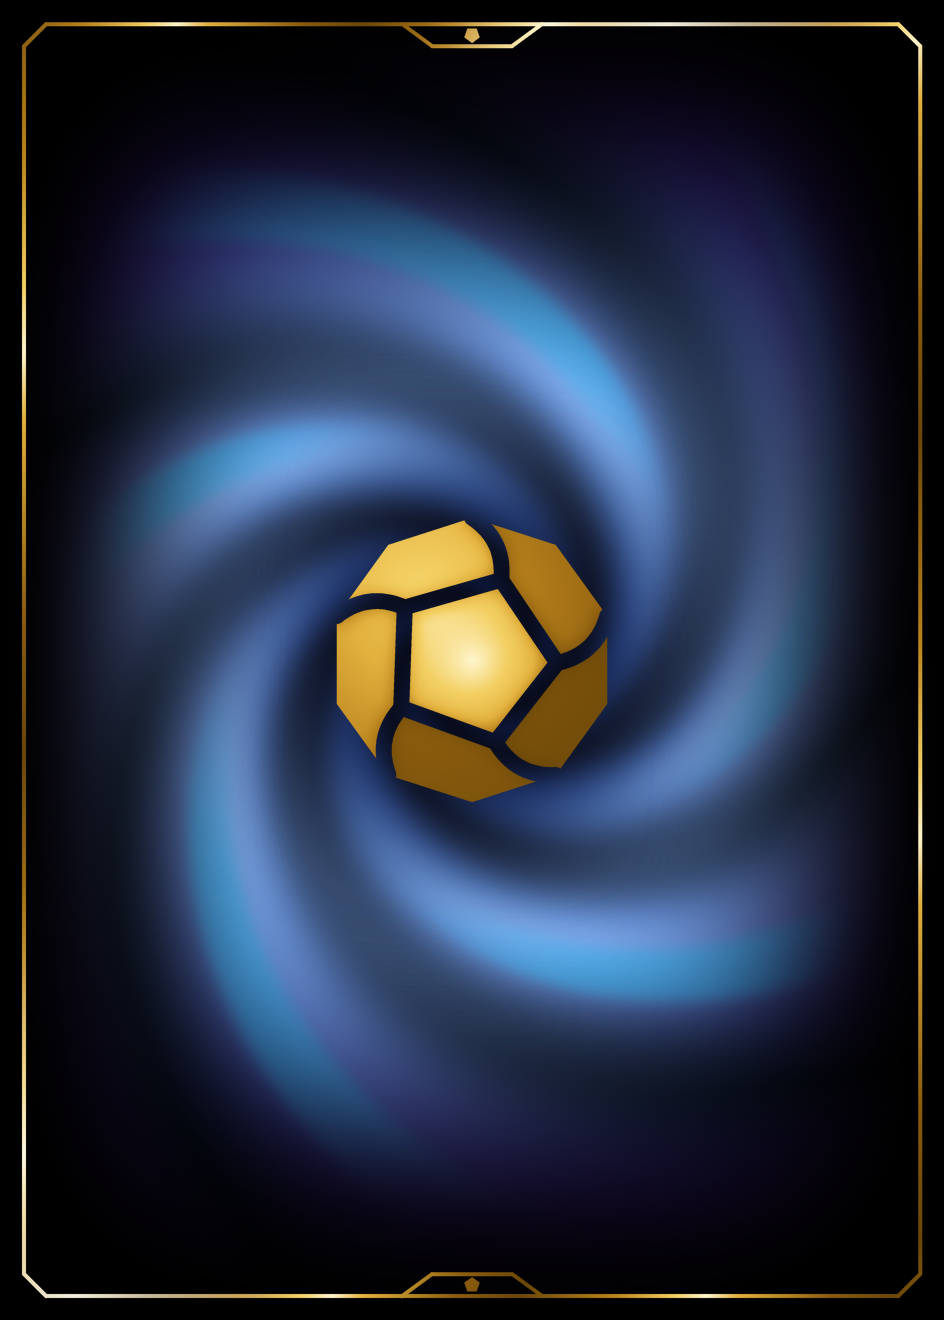
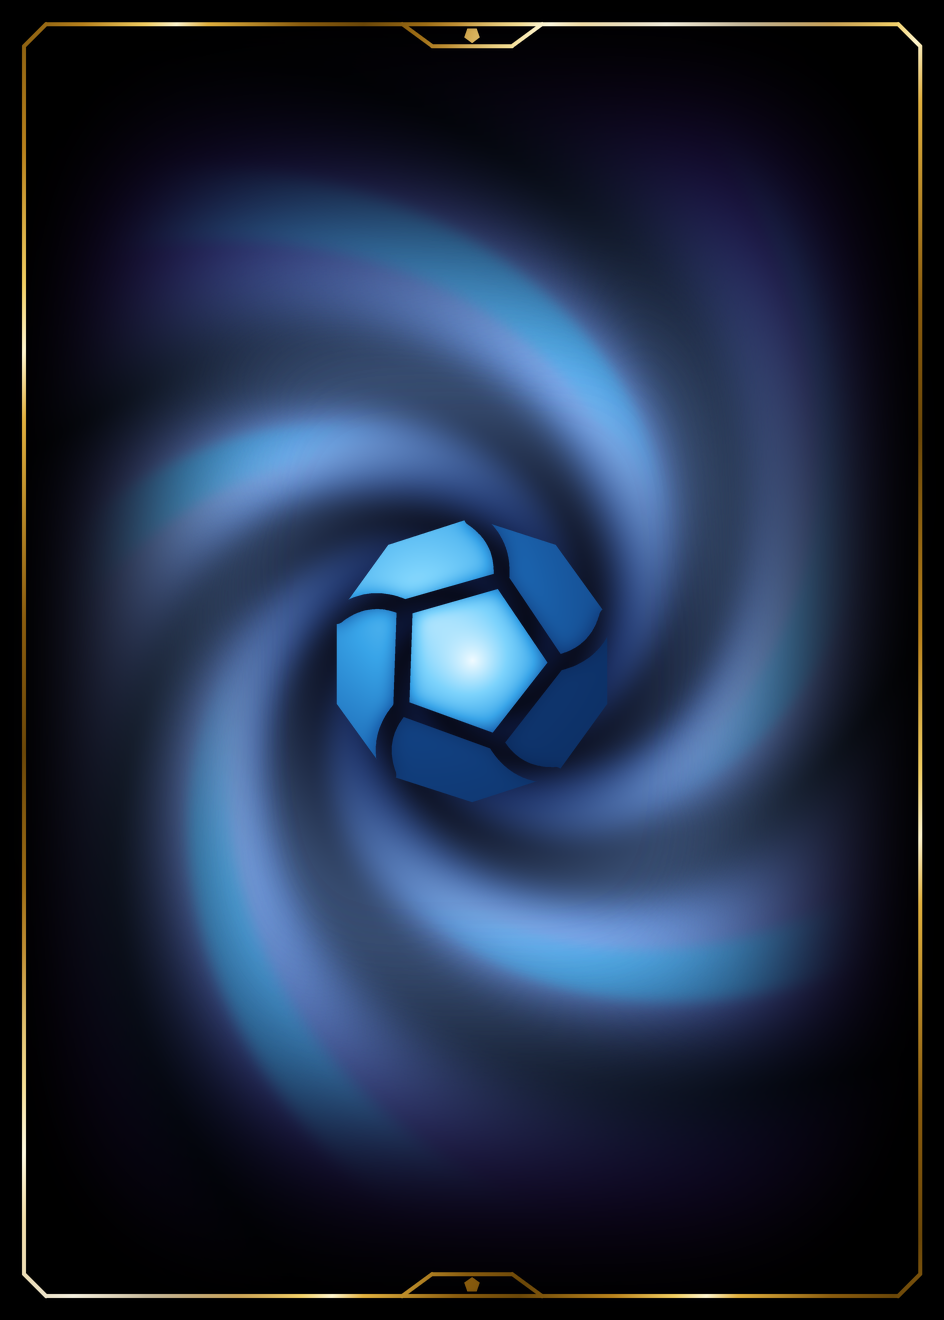
feat(cards): the blue back is «Vórtice», the default; the gold one becomes «Campeón»
card-back.png (the default, the token's own image) is now the blue gem's
back; the gold one moves to card-backs/campeon.png as «Campeón». Players
who kept «Vórtice» get the blue one.

Changed region(s): [[0.3379, 0.3727, 0.6451, 0.6212]]

diff --git a/src/app/core/theme/card-back.service.ts b/src/app/core/theme/card-back.service.ts
@@ -12,7 +12,7 @@ export interface CardBack {
 /** The card backs, the default first (its image is the token's own, styles/tokens/_color.scss). */
 export const CARD_BACKS: readonly CardBack[] = [
   { id: 'vortice', name: 'Vórtice', src: '/images/card-back.png' },
-  { id: 'vortice-azul', name: 'Vórtice azul', src: '/images/card-backs/vortice-azul.png' },
+  { id: 'campeon', name: 'Campeón', src: '/images/card-backs/campeon.png' },
   { id: 'clasico', name: 'Clásico', src: '/images/card-backs/clasico.png' },
 ];
 

diff --git a/design/cardback/build_cardback.py b/design/cardback/build_cardback.py
@@ -5,7 +5,8 @@ gem's faces solid in the gold cards' tones, the table turned, its edges cut out 
 thin frame in the gold cards' still metal, its corners cut and a tab with the gem's table top and bottom. Same size
 ratio as the old back (472×660), drawn at 2×.
 
-    python build_cardback.py <out.png> [--blue]   (--blue: the gem in ice blue, «Vórtice azul»)
+    python build_cardback.py <out.png> --blue   «Vórtice», the default back (public/images/card-back.png): the gem in ice blue
+    python build_cardback.py <out.png>          «Campeón» (public/images/card-backs/campeon.png): the gem in gold
 """
 import os
 import sys
@@ -285,8 +286,8 @@ def cardback():
     return card.convert('RGB')
 
 
-# «Vórtice azul»: the same back with the gem in ice blue tones (the palette's light blue, the vortex's accent) instead
-# of the gold cards'; the frame stays gold
+# «Vórtice», the default back: the same with the gem in ice blue tones (the palette's light blue, the vortex's accent)
+# instead of the gold cards' («Campeón»); the frame stays gold
 BLUE_RAMP = [(0.0, '#06183a'), (0.18, '#0b2a5c'), (0.36, '#124283'), (0.52, '#1c68b4'), (0.68, '#38a4e8'), (0.84, '#7dd3fc'), (1.0, '#effaff')]
 
 

diff --git a/design/logo/render_espiral.py b/design/logo/render_espiral.py
@@ -1,7 +1,7 @@
 """The ERAS gem «Espiral» (the card back's, design/cardback/build_cardback.py) as the site's icons: favicon.svg (vector:
 each face a gold gradient by its light, the table glowing from its heart, the edges cut out by a mask) and the raster
 icons (logo, PWA "any" and "maskable", Apple touch), drawn with the card back's own renderer. The site's icons are the
-blue gem («Vórtice azul»'s); without --blue, the gold one.
+blue gem («Vórtice»'s); without --blue, the gold one («Campeón»'s).
 
     python render_espiral.py <public_dir> --blue
 """
